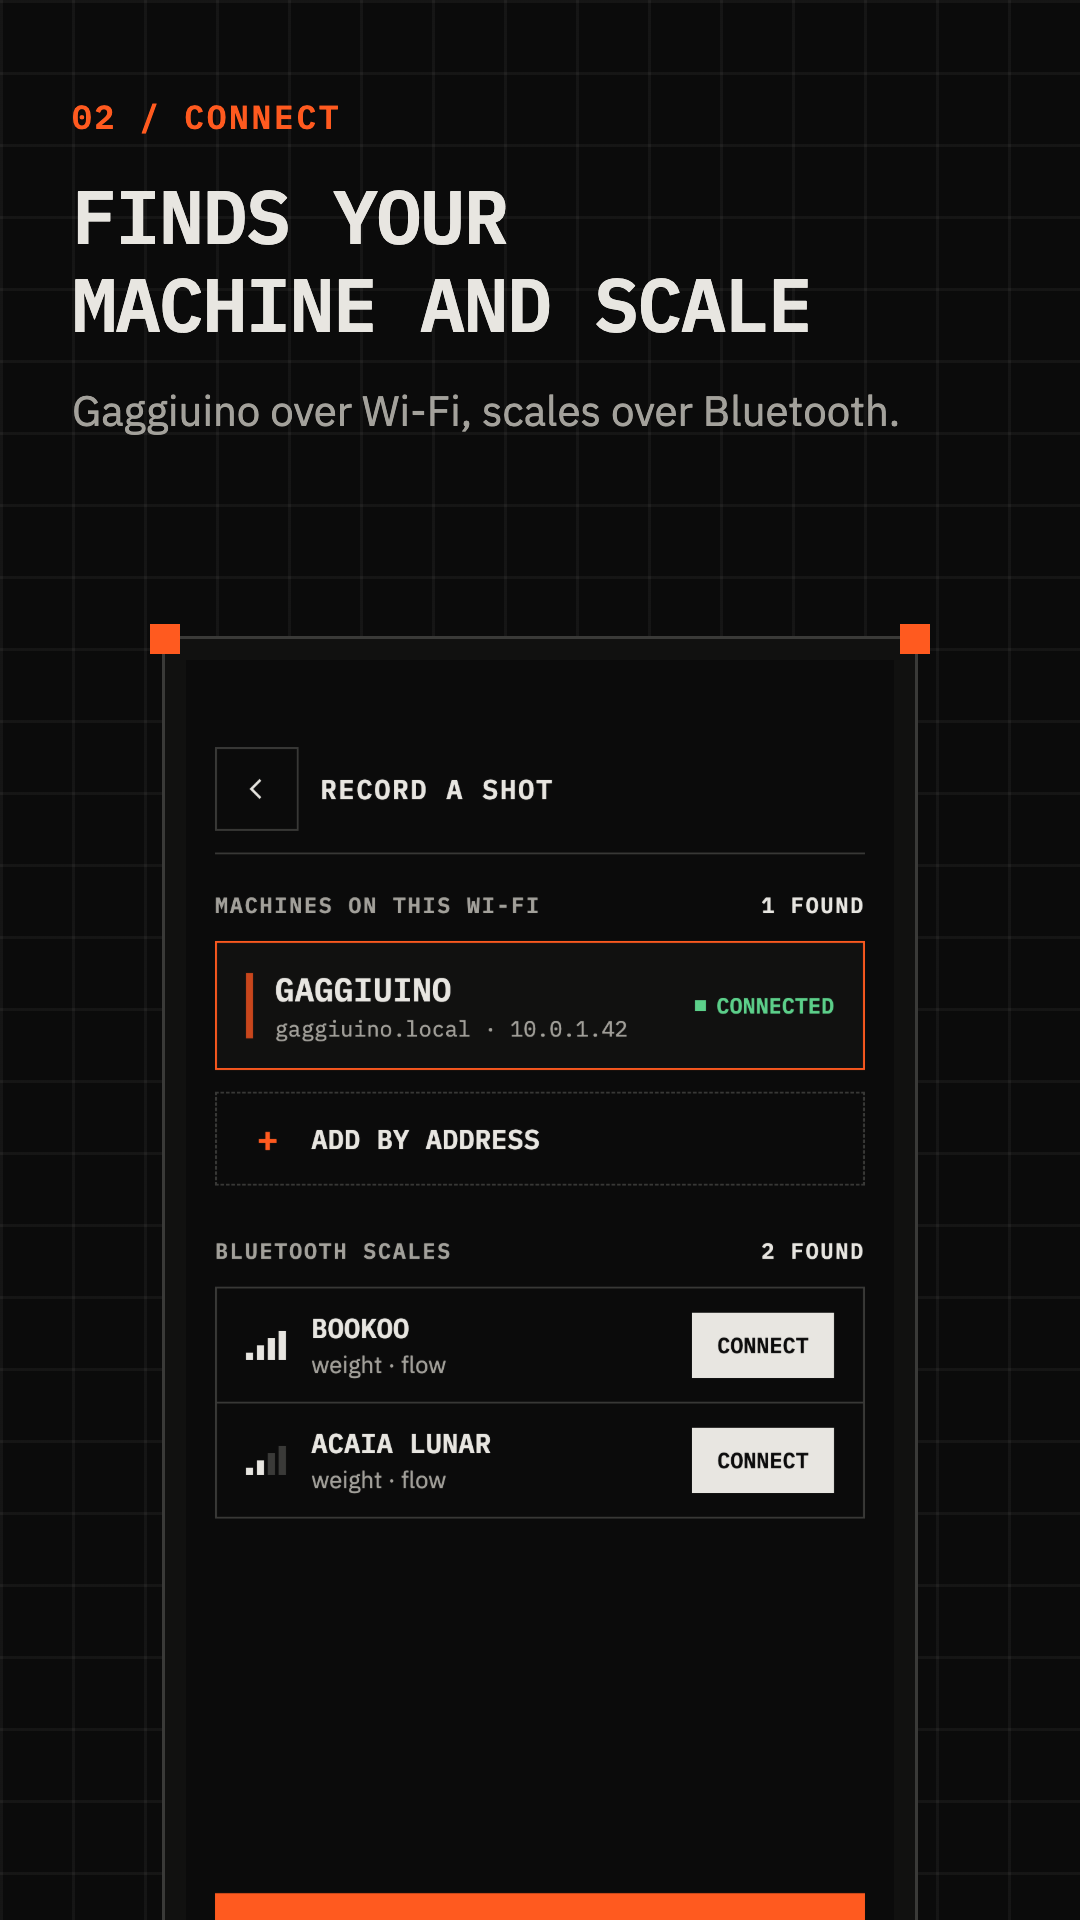
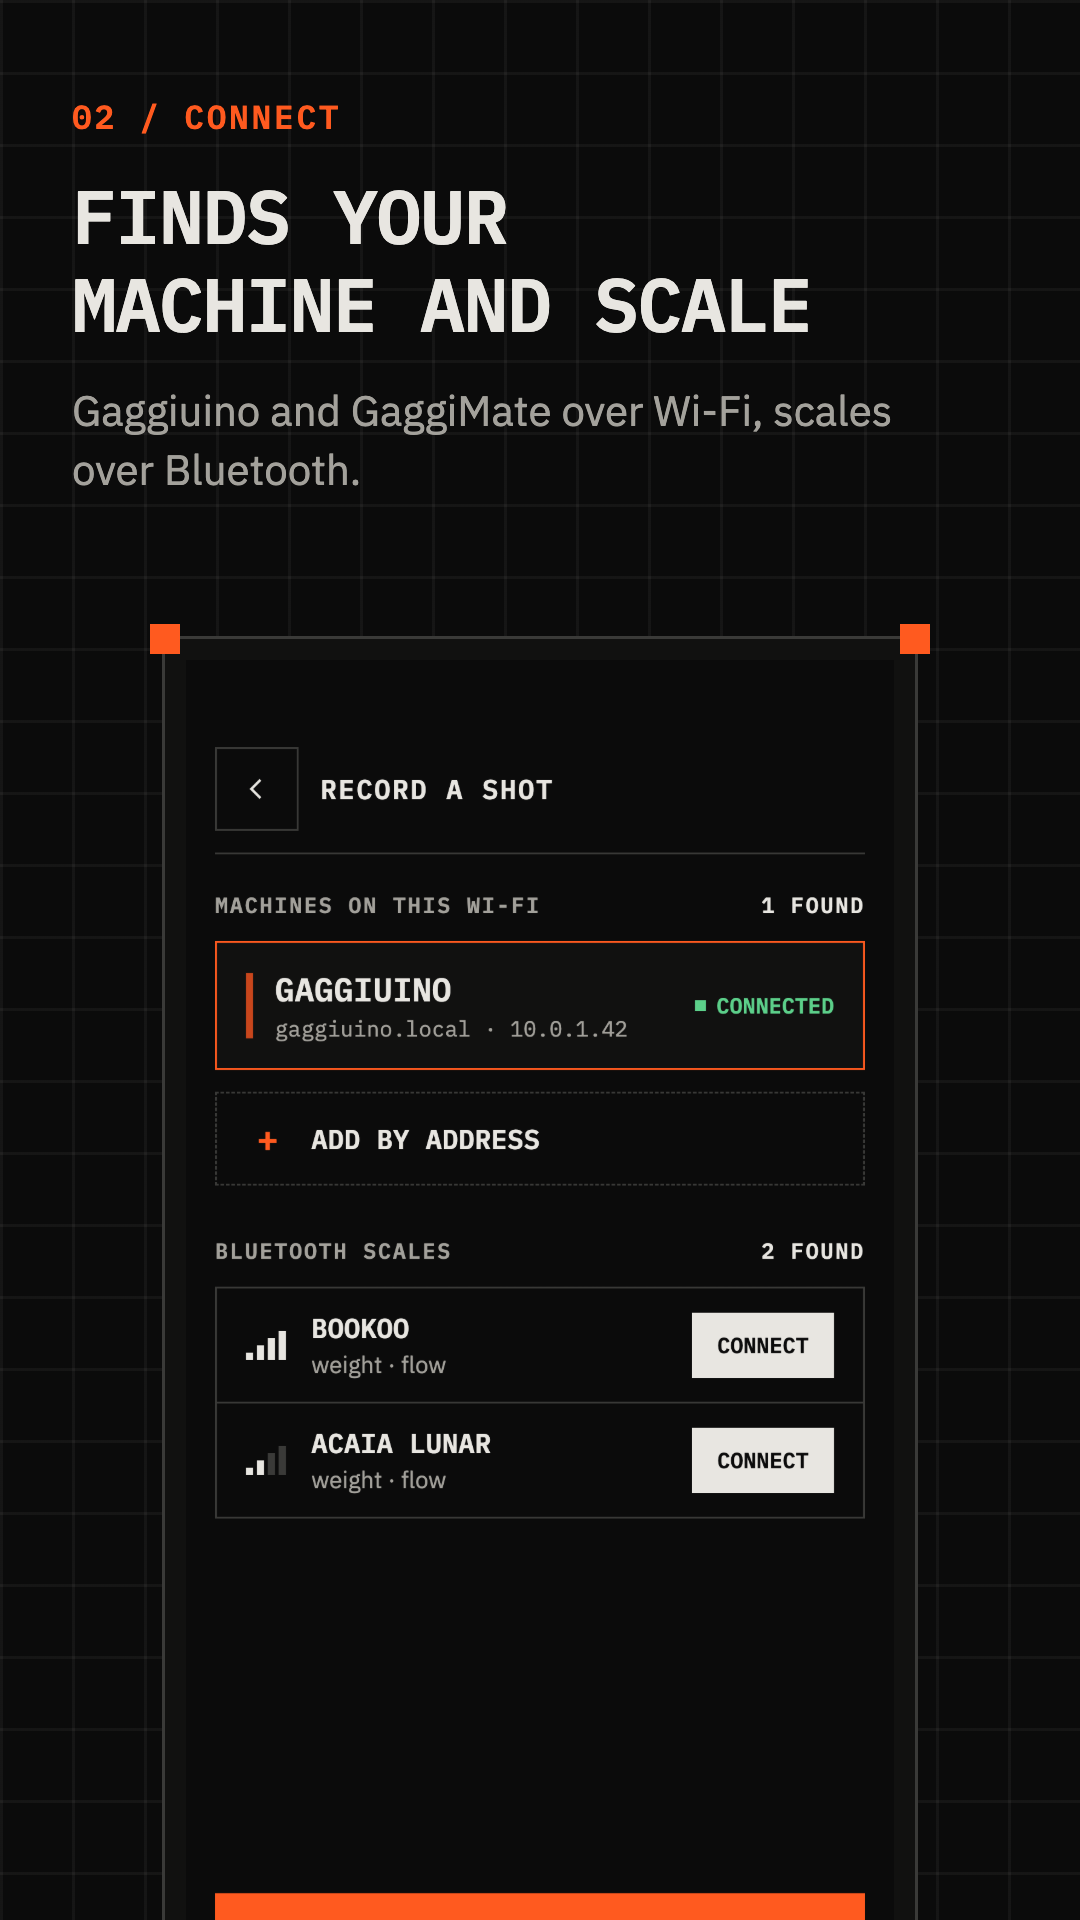
Store art: App Store screenshots, every slot including iPhone Duo
The iOS app had no store art. `release.yml` says iOS is uploaded by hand,
there is no fastlane, and `design/store/` built Play slots only, while
docs/DEVELOPMENT.md already flagged that Duo screenshots are needed from
April 2027.

This needed no new pipeline and no new artboards. `compose.py`'s builders
(`ticks`, `device`, `copy`, `frame`, `shoot`) were already parameterised and
knew nothing about Play; only `main` held Play's literals. And a device box
keeps its board's aspect and bleeds off the frame's bottom edge by design, so
any frame size can hold a board that already exists. So the App Store slots are
an `APPSTORE` table of one row each, appended to the same `jobs` list.

Sizes come from Apple's own spec rather than the third-party guides, which
disagree with it: required are one iPhone with Dynamic Island (medium,
1179 x 2556) and, since the app runs on iPad, one iPad 13-inch (2064 x 2752).
The large iPhone set (1320 x 2868) is the highest resolution, which App Store
Connect scales the smaller slots down from. iPad also gets landscape
(2752 x 2064), and Duo gets both displays (outer 1398 x 2034, inner
2007 x 2853). Duo's outer display is phone-shaped and its inner one is the
larger, squarer screen, so they take the phone and `-M` boards.

`frame w x scale` has to equal Apple's pixel size exactly, and a wrong scale is
otherwise caught only by App Store Connect refusing the upload, so `shoot` now
asserts the size of every file it writes, Play's included.
[…]

Changed region(s): [[0.1528, 0.1875, 0.825, 0.25], [0.0611, 0.2188, 0.1222, 0.25]]

diff --git a/design/store/compose.py b/design/store/compose.py
@@ -19,13 +19,14 @@ from render import CHROMES
 HERE = pathlib.Path(__file__).parent
 SCREENS = HERE / "screens"
 PLAY = HERE / "play"
+APPSTORE_DIR = HERE / "appstore"
 LOGO = HERE.parent / "logo" / "kit"
 
 INK, BONE, SIGNAL, LINE, MUTE, BLUE = "#0B0B0B", "#E8E6E1", "#FF5A1F", "#3A3A38", "#A3A19B", "#7FA7B8"
 
 PHONE = [
     ("Main", "01 / START", "FILM THE SHOT.\nKEEP THE DATA.", "Film espresso with its live graph from your machine and scale."),
-    ("Home-Found", "02 / CONNECT", "FINDS YOUR\nMACHINE AND SCALE", "Gaggiuino over Wi-Fi, scales over Bluetooth."),
+    ("Home-Found", "02 / CONNECT", "FINDS YOUR\nMACHINE AND SCALE", "Gaggiuino and GaggiMate over Wi-Fi, scales over Bluetooth."),
     ("Rec-Recording", "03 / RECORD", "STARTS WHEN\nTHE SHOT DOES", "Recording follows the brew switch."),
     ("Rec-Graph", "04 / PLACE", "THE GRAPH WHERE\nYOU WANT IT", "Drag it, resize it, pick what it shows."),
     ("Edit-Idle", "05 / EDIT", "LINE IT UP AFTER", "Any video, any shot file. Trim and export."),
@@ -34,8 +35,28 @@ PHONE = [
 TABLET = [
     ("Rec-Recording", "01 / RECORD", "STARTS WHEN\nTHE SHOT DOES", "Recording follows the brew switch, with the graph drawn live."),
     ("Edit-Idle", "02 / EDIT", "LINE IT UP AFTER", "Any video, any shot file. Trim, frame and export."),
-    ("Home-Found", "03 / CONNECT", "FINDS YOUR\nMACHINE AND SCALE", "Gaggiuino over Wi-Fi, scales over Bluetooth."),
+    ("Home-Found", "03 / CONNECT", "FINDS YOUR\nMACHINE AND SCALE", "Gaggiuino and GaggiMate over Wi-Fi, scales over Bluetooth."),
     ("Rec-Style", "04 / STYLE", "SIX STYLES,\nOR YOUR OWN", "Every export matches the preview."),
+]
+
+# The App Store slots, from Apple's own spec
+# (developer.apple.com/help/app-store-connect/reference/screenshot-specifications/, read 2026-10-29). Required are
+# one iPhone with Dynamic Island (medium) and, since the app runs on iPad, one iPad 13-inch; the large iPhone set is
+# the highest resolution, which App Store Connect scales down from. Duo is required from April 2027 on iOS 27.1+.
+#
+# Each is laid out at 1x and shot at the scale that gives Apple's pixel size exactly. No new artboards: the device
+# box keeps its board's aspect and bleeds off the frame's bottom edge, as the Play frames do. Duo's two displays
+# take the phone and the medium board — the outer display is phone-shaped, the inner one is the larger, squarer
+# screen.
+#
+#   (directory, frames, screen suffix, frame w, h, grid cell, scale, copy(x, y, w, …, hs), device(x, y, sw, sh, pad, tick))
+APPSTORE = [
+    ("iphone-6.9", PHONE, "", 440, 956, 29, 3, (29, 39, 367, 31), (66, 259, 288, 625, 10, 12)),
+    ("iphone-6.1", PHONE, "", 393, 852, 26, 3, (26, 35, 328, 27), (59, 231, 258, 558, 9, 11)),
+    ("ipad-13", TABLET, "-M", 1032, 1376, 55, 2, (69, 83, 894, 62), (110, 516, 791, 1266, 14, 21)),
+    ("ipad-13-landscape", TABLET, "-B", 1376, 1032, 34, 2, (56, 186, 354, 44), (458, 242, 840, 525, 11, 15)),
+    ("duo-outer", PHONE, "", 466, 678, 31, 3, (31, 41, 388, 32), (112, 272, 225, 487, 8, 12)),
+    ("duo-inner", TABLET, "-M", 669, 951, 45, 3, (45, 58, 557, 46), (119, 330, 415, 664, 8, 16)),
 ]
 
 HEAD = f"""<!doctype html><meta charset="utf-8">
@@ -129,6 +150,12 @@ def shoot(chrome: str, page: str, w: int, h: int, scale: float, out: pathlib.Pat
             check=True, capture_output=True,
         )
     drop_alpha(out)
+    want = f"{round(w * scale)}x{round(h * scale)}"
+    got = subprocess.run(
+        ["magick", "identify", "-format", "%wx%h", out], check=True, capture_output=True, text=True
+    ).stdout
+    if got != want:
+        raise SystemExit(f"{out.name}: wrote {got}, wanted {want}")
 
 
 def drop_alpha(path: pathlib.Path) -> None:
@@ -152,6 +179,11 @@ def main() -> None:
         body = copy(64, 96, 360, *c, 44) + device(472, 152, 736, 460, 10, 14, SCREENS / f"{scr}-B.png")
         jobs.append((frame(1280, 800, 32, body), 1280, 800, 2, PLAY / "tablet-10" / f"{i:02}.png"))
     jobs.append((feature(), 1024, 500, 1, PLAY / "feature-graphic-1024x500.png"))
+    for d, frames, suffix, fw, fh, cell, scale, (cx, cy, cw, hs), (dx, dy, sw, sh, pad, tick) in APPSTORE:
+        (APPSTORE_DIR / d).mkdir(parents=True, exist_ok=True)
+        for i, (scr, *c) in enumerate(frames, 1):
+            body = copy(cx, cy, cw, *c, hs) + device(dx, dy, sw, sh, pad, tick, SCREENS / f"{scr}{suffix}.png")
+            jobs.append((frame(fw, fh, cell, body), fw, fh, scale, APPSTORE_DIR / d / f"{i:02}.png"))
     for page, w, h, scale, out in jobs:
         shoot(chrome, page, w, h, scale, out)
         print(out.relative_to(HERE))

diff --git a/design/store/render.py b/design/store/render.py
@@ -18,7 +18,17 @@ HERE = pathlib.Path(__file__).parent
 SRC = HERE / "src"
 OUT = HERE / "screens"
 
-CHROMES = ["/Applications/Google Chrome.app/Contents/MacOS/Google Chrome", "google-chrome", "chromium"]
+# Playwright keeps a full Chrome build, and this repo already installs one for tools/web-smoke, so the art can be
+# made on a machine with no Chrome of its own. A real Chrome still wins: these go last.
+_PLAYWRIGHT = pathlib.Path.home() / "Library" / "Caches" / "ms-playwright"
+CHROMES = ["/Applications/Google Chrome.app/Contents/MacOS/Google Chrome", "google-chrome", "chromium"] + [
+    str(c)
+    for pattern in (
+        "chromium-*/chrome-*/Google Chrome for Testing.app/Contents/MacOS/Google Chrome for Testing",
+        "chromium-*/chrome-linux/chrome",
+    )
+    for c in sorted(_PLAYWRIGHT.glob(pattern), reverse=True)
+]
 SCALE = {(390, 844): 3, (800, 1280): 1.5, (1280, 800): 2, (1280, 860): 2}
 
 # The drawn camera frame swapped for a real shot on the Gaggiuino (photos/, metadata stripped). Board name prefix ->

diff --git a/design/store/README.md b/design/store/README.md
@@ -1,4 +1,4 @@
-# Store art: Play Store, Instrument redesign
+# Store art: Play Store and App Store, Instrument redesign
 
 The Play listing art in the Instrument look (logo: `design/logo`, screens: the redesign canvas
 https://claude.ai/artifact/LTQSexsdusFXLmyuTFNVSa).
@@ -6,9 +6,10 @@ https://claude.ai/artifact/LTQSexsdusFXLmyuTFNVSa).
 - **Figma** (layout source, and the template's Play listing mockup with our icon and screenshots):
   https://www.figma.com/design/C3IXXAYvSHQ0TEgwTijgFc, page *Play Store Template*. Phone screenshots are the
   `Pixel Preview01`–`06` components; tablets and the feature graphic sit to their right.
-- **Build:** `python3 design/store/render.py && python3 design/store/compose.py` (Google Chrome, ImageMagick,
-  network for IBM Plex). `render.py` shoots the artboards in `src/` to `screens/`; `compose.py` lays out the same
-  frames as Figma and writes `play/`. Change copy in `compose.py` and in Figma together.
+- **Build:** `python3 design/store/render.py && python3 design/store/compose.py` (Google Chrome or the one
+  Playwright keeps for `tools/web-smoke`, ImageMagick, network for IBM Plex). `render.py` shoots the artboards in
+  `src/` to `screens/`; `compose.py` lays out the same frames as Figma and writes `play/` and `appstore/`. Change
+  copy in `compose.py` and in Figma together.
 
 ## Files in `play/`
 
@@ -38,5 +39,27 @@ The camera frame in the record and edit screens is a real shot on the Gaggiuino 
 location stripped): `armed.jpg` for Armed and the style sheet, `pouring.jpg` for Recording, `poured.jpg` for the
 editor. `render.py` (`PHOTOS`) swaps it in for the canvas's drawn camera.
 
-The screens show the redesign, not the shipping app: re-shoot them from the app once the Instrument theme lands in
-`core/designsystem`.
+## Files in `appstore/`
+
+Sizes from Apple's own spec, which the third-party guides disagree with:
+<https://developer.apple.com/help/app-store-connect/reference/screenshot-specifications/>. Required are one iPhone
+with Dynamic Island (medium) and, since the app runs on iPad, one iPad 13-inch; the large iPhone set is the highest
+resolution, which App Store Connect scales the smaller slots down from. Duo is required from April 2027 on
+iOS 27.1+ (docs/DEVELOPMENT.md). Apple allows ten per slot.
+
+| Folder | Size | App Store slot | Screen |
+| --- | --- | --- | --- |
+| `iphone-6.9/01–06.png` | 1320 × 2868 | iPhone, Dynamic Island, large | phone board |
+| `iphone-6.1/01–06.png` | 1179 × 2556 | iPhone, Dynamic Island, medium — **required** | phone board |
+| `ipad-13/01–04.png` | 2064 × 2752 | iPad 13-inch, portrait — **required** | `-M` board |
+| `ipad-13-landscape/01–04.png` | 2752 × 2064 | iPad 13-inch, landscape | `-B` board |
+| `duo-outer/01–06.png` | 1398 × 2034 | iPhone Duo, outer display | phone board |
+| `duo-inner/01–04.png` | 2007 × 2853 | iPhone Duo, inner display | `-M` board |
+
+No artboards of their own: a device box keeps its board's aspect and bleeds off the frame's bottom edge, so any
+frame size can hold an existing board. Duo's outer display is phone-shaped and its inner one is the larger, squarer
+screen, so they take the phone and `-M` boards. The frames carry the Play headlines of the same screens.
+
+`compose.py`'s `APPSTORE` table holds one row per slot; `frame w × scale` has to equal Apple's pixel size exactly,
+and `shoot` asserts that on every write, because a wrong scale is otherwise only caught by App Store Connect
+refusing the upload.
